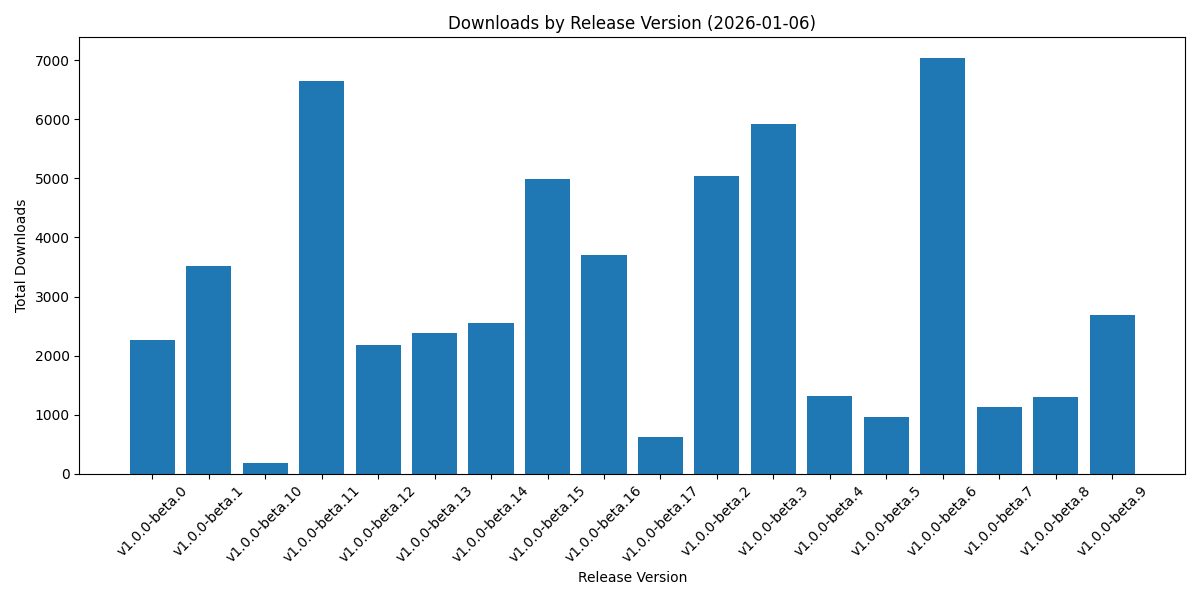
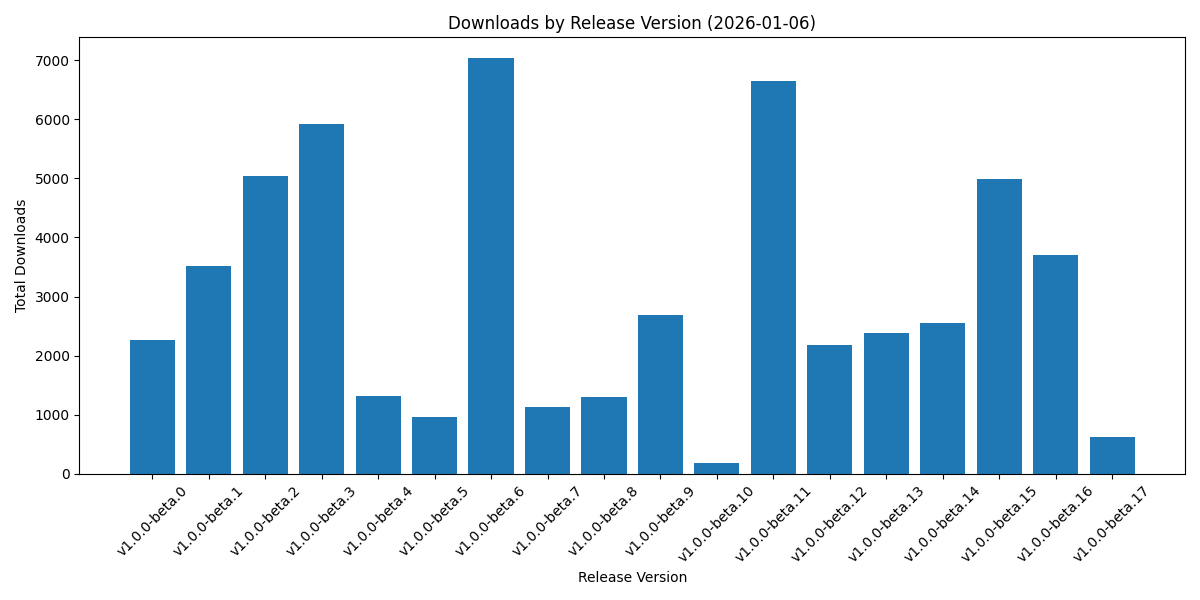
Sort releases in ascending semver order when generating graph (#4)
* Initial plan

* Sort releases in ascending semver order when generating graph

---------

diff --git a/scripts/visualize_downloads.py b/scripts/visualize_downloads.py
@@ -4,6 +4,39 @@ import matplotlib.pyplot as plt
 from datetime import datetime
 import matplotlib.dates as mdates
 import os
+import re
+
+def parse_semver(version):
+    """Parse a semver version string and return a tuple for sorting.
+    
+    Handles versions like 'v1.0.0-beta.9' and returns a tuple that allows
+    proper semver sorting (e.g., beta.2 < beta.10).
+    """
+    # Remove leading 'v' if present
+    version = version.lstrip('v')
+    
+    # Pattern to match semver: major.minor.patch[-prerelease[.number]]
+    pattern = r'^(\d+)\.(\d+)\.(\d+)(?:-([a-zA-Z0-9-]+)(?:\.(\d+))?)?$'
+    match = re.match(pattern, version)
+    
+    if match:
+        major = int(match.group(1))
+        minor = int(match.group(2))
+        patch = int(match.group(3))
+        prerelease_type = match.group(4) or ''
+        prerelease_num = int(match.group(5)) if match.group(5) else 0
+        
+        # Releases without prerelease tags should sort after prereleases
+        # e.g., 1.0.0 > 1.0.0-beta.9
+        if prerelease_type:
+            prerelease_priority = 0  # Prerelease versions
+        else:
+            prerelease_priority = 1  # Stable releases
+        
+        return (major, minor, patch, prerelease_priority, prerelease_type, prerelease_num)
+    
+    # Fallback: unparsable versions sort at the very end
+    return (float('inf'), 0, 0, 0, version, 0)
 
 def load_download_history(data_dir="."):
     """Load download history from JSON file"""
@@ -120,8 +153,8 @@ def create_release_breakdown(history):
     for release_tag, release_data in latest_data['releases'].items():
         release_groups[release_tag] = release_data['total_downloads']
     
-    # Sort releases by version (oldest to newest)
-    sorted_releases = sorted(release_groups.items(), key=lambda x: x[0])
+    # Sort releases by semver (oldest to newest)
+    sorted_releases = sorted(release_groups.items(), key=lambda x: parse_semver(x[0]))
     releases = [item[0] for item in sorted_releases]
     downloads = [item[1] for item in sorted_releases]
     
